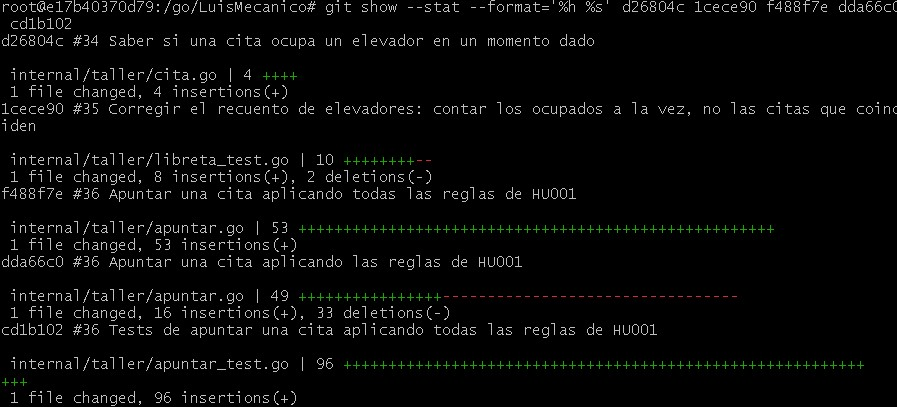
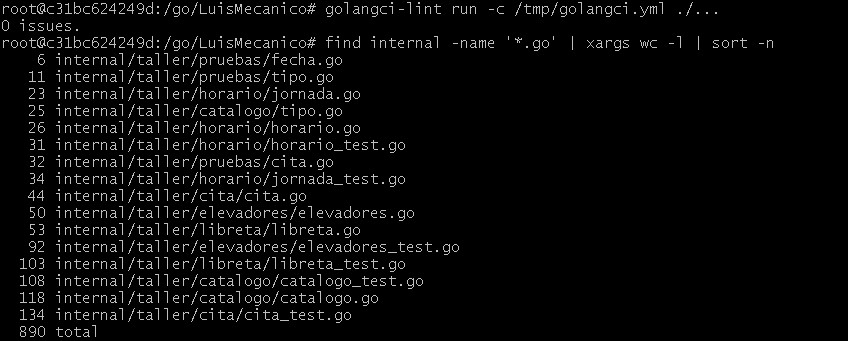
#37 Documento del objetivo 4 recortado, con las medidas de calidad de los tests sobre los paquetes nuevos

diff --git a/docs/objetivo-4.md b/docs/objetivo-4.md
@@ -1,11 +1,12 @@
 # Objetivo 4: Tests
 
-Una biblioteca de aserciones compara el resultado obtenido con el esperado y da el mensaje del fallo. Un test runner descubre los tests, los ejecuta y produce el informe de pasados, fallados y cobertura.
-
 ## Biblioteca de aserciones
 
 ### Criterios
 
+Búsqueda: módulos de Go cuya función declarada es comparar resultados en tests, tanto los más usados como alternativas menos conocidas.
+
+Aceptación:
 - Mantenimiento: ha publicado versión en el último año.
 - Dependencias nuevas que añade a `go.mod` y `go.sum`.
 - Coste: tiempo de descarga y compilación, y sobrecarga en la ejecución frente a usar `testing` solo.
@@ -18,53 +19,34 @@ Una biblioteca de aserciones compara el resultado obtenido con el esperado y da 
 
 ![Versiones y fechas de las opciones](../media/opciones-test-versiones.png)
 
-Cumplen el criterio de mantenimiento:
+Cumplen el criterio de mantenimiento: `testing` (biblioteca estándar, la referencia), testify v1.12.1 (17-08-2026), gomega v1.44.0 (24-09-2026) y shoenig/test v1.13.2 (21-04-2026).
 
-- `testing`, de la biblioteca estándar de Go. Es la referencia con la que se compara.
-- testify v1.12.1 (17-08-2026).
-- gomega v1.44.0 (24-09-2026).
-- shoenig/test v1.13.2 (21-04-2026).
-
-No lo cumplen y se descartan:
-
-- quicktest v1.14.6 (01-08-2023).
-- is v1.4.1 (16-05-2022).
-- gotest.tools/v3 v3.5.2 (05-09-2024).
-- alecthomas/assert v2.11.0 (17-09-2024).
-
-Sin comprobar: go-testdeep, porque `go list` no encuentra versión con la ruta `/v2`.
+Se descartan por no cumplirlo: quicktest v1.14.6 (01-08-2023), is v1.4.1 (16-05-2022), gotest.tools/v3 v3.5.2 (05-09-2024) y alecthomas/assert v2.11.0 (17-09-2024). Sin comprobar: go-testdeep, porque `go list` no encuentra versión con la ruta `/v2`.
 
 ### Medidas
 
-Un mismo test escrito con cada opción (comparar una estructura con `time.Time` y comprobar un error con `errors.Is`), en Linux (imagen `golang:latest`), con las cachés de módulos y de compilación vacías en cada una. La descarga es `go mod tidy`; la ejecución se mide con hyperfine sobre el binario de test ya compilado (500 ejecuciones, 20 de calentamiento).
+Un mismo test con cada opción (comparar una estructura con `time.Time` y comprobar un error con `errors.Is`), en Linux (imagen `golang:latest`), con las cachés vacías. Descarga con `go mod tidy`; ejecución con hyperfine sobre el binario de test ya compilado (500 ejecuciones, 20 de calentamiento).
 
 ![Medidas de las opciones de aserciones](../media/aserciones-medidas.png)
 
-- `testing`: descarga 0,585 s, compilación 6,186 s, 0 módulos, 0 líneas en `go.sum`, ejecución 2,8 ± 0,4 ms.
-- testify: descarga 1,421 s, compilación 11,217 s, 3 módulos, 5 líneas en `go.sum`, ejecución 3,9 ± 0,6 ms.
-- gomega: descarga 2,512 s, compilación 12,283 s, 12 módulos, 17 líneas en `go.sum`, ejecución 4,4 ± 0,6 ms.
-- shoenig/test: descarga 1,104 s, compilación 7,045 s, 2 módulos, 4 líneas en `go.sum`, ejecución 4,1 ± 0,7 ms.
+- `testing`: descarga 0,585 s, compilación 6,186 s, 0 módulos, ejecución 2,8 ± 0,4 ms.
+- testify: descarga 1,421 s, compilación 11,217 s, 3 módulos, ejecución 3,9 ± 0,6 ms.
+- gomega: descarga 2,512 s, compilación 12,283 s, 12 módulos, ejecución 4,4 ± 0,6 ms.
+- shoenig/test: descarga 1,104 s, compilación 7,045 s, 2 módulos, ejecución 4,1 ± 0,7 ms.
 
-Resultado por criterio:
-
-- Errores y estructuras: las cuatro compilan y pasan el test.
-- Escritura junto a los fuentes: las cuatro pasan con los fuentes en solo lectura, ejecutadas como usuario sin permisos de escritura.
-- Dependencias nuevas: testify 3 módulos, gomega 12, shoenig/test 2.
-- Coste de descarga y compilación frente a `testing`: testify +5,9 s, gomega +8,0 s, shoenig/test +1,4 s.
-- Sobrecarga de ejecución frente a `testing`: testify +1,1 ms, gomega +1,6 ms, shoenig/test +1,3 ms. Las diferencias entre las tres están dentro de la desviación.
+Las cuatro comprueban errores y estructuras con `time.Time` y pasan con los fuentes en solo lectura. La sobrecarga de ejecución de las tres externas (entre 1,1 y 1,6 ms) queda dentro de la desviación.
 
 ### Decisión
 
-Me quedo con `testing`, sin biblioteca externa.
-
-Las cuatro opciones cumplen mantenimiento, comprobar errores con `errors.Is`, comparar estructuras con `time.Time` y no escribir junto a los fuentes. Lo que las separa es el coste: `testing` no añade ningún módulo ni tiempo de descarga o compilación, mientras que shoenig/test añade 2 módulos y 1,4 s, testify 3 módulos y 5,9 s y gomega 12 módulos y 8,0 s. La sobrecarga de ejecución (entre 1,1 y 1,6 ms) queda dentro de la desviación y no desempata.
-
-Descarto shoenig/test, testify y gomega porque ninguna aporta algo que mis criterios premien y todas añaden dependencias y tiempo. El precio de `testing` es escribir las comparaciones a mano, que mis criterios no medían.
+Me quedo con `testing`, sin biblioteca externa. Las cuatro cumplen los criterios de aceptación y lo que las separa es el coste: `testing` no añade módulos ni tiempo, y shoenig/test, testify y gomega añaden 2, 3 y 12 módulos y entre 1,4 y 8,0 s. Ninguna aporta algo que mis criterios premien. El precio es escribir las comparaciones a mano.
 
 ## Test runner
 
 ### Criterios
 
+Búsqueda: programas o módulos de Go que ejecutan los tests y muestran el informe, tanto los más usados como alternativas menos conocidas.
+
+Aceptación:
 - Mantenimiento: ha publicado versión en el último año.
 - Tiempo de instalación en Linux con el método oficial.
 - Sobrecarga de ejecución frente a `go test`.
@@ -73,150 +55,94 @@ Descarto shoenig/test, testify y gomega porque ninguna aporta algo que mis crite
 
 ### Opciones
 
-Las versiones y fechas salen de la misma captura.
-
-Cumplen el criterio de mantenimiento:
-
-- `go test`, incluido en Go. Es la referencia con la que se compara.
-- ginkgo v2.34.0 (02-11-2026).
-- gotest v0.0.7 (10-01-2026).
-
-No lo cumplen y se descartan:
-
-- gotestsum v1.13.0 (11-09-2025).
-- richgo v0.3.12 (26-02-2023).
+Las versiones y fechas salen de la misma captura. Cumplen el mantenimiento: `go test` (incluido en Go, la referencia), ginkgo v2.34.0 (02-11-2026) y gotest v0.0.7 (10-01-2026). Se descartan: gotestsum v1.13.0 (11-09-2025) y richgo v0.3.12 (26-02-2023).
 
 ### Medidas
 
-Un mismo test escrito para cada opción, en Linux (imagen `golang:latest`). La instalación se hace con `go install` y las cachés vacías. La ejecución se mide con hyperfine (30 ejecuciones, 3 de calentamiento) sobre `go test -count=1 ./...`, o el comando equivalente de cada runner, con la compilación ya en caché; `go test` se mide al principio y al final para detectar deriva de la máquina. El solo lectura se prueba ejecutando como un usuario sin permisos de escritura en el directorio de los fuentes, con la caché de compilación en otro sitio. La variante de ginkgo usa su propio estilo de tests (`Describe` e `It`).
+Un mismo test por opción, en Linux (imagen `golang:latest`), instalando con `go install` y cachés vacías. Ejecución con hyperfine (30 ejecuciones, 3 de calentamiento) sobre `go test -count=1 ./...` o el equivalente de cada runner. El solo lectura se prueba como usuario sin permisos de escritura en los fuentes.
 
 ![Medidas de los test runners](../media/runner-medidas.png)
 
-- `go test`: incluido en Go. Ejecución 254,3 ± 13,9 ms al inicio y 254,8 ± 9,3 ms al final (referencia: 254,6 ms).
-- gotest: instalación 6,311 s. Ejecución 272,0 ± 24,0 ms.
-- ginkgo: instalación 13,458 s, más 4,595 s de descarga de su biblioteca en el proyecto. Ejecución 739,1 ± 22,2 ms.
-
-Resultado por criterio:
-
-- Instalación: `go test` ninguna; gotest 6,3 s; ginkgo 13,5 s.
-- Sobrecarga de ejecución frente a `go test`: gotest +17,4 ms, dentro de su desviación y por tanto no distinguible del ruido; ginkgo +484,5 ms.
-- Solo lectura: `go test` y gotest pasan (código 0). `ginkgo` falla (código 1), con y sin `--output-dir`, porque copia el binario de test compilado al directorio del paquete (`permission denied`). Compilando el test fuera con `go test -c -o` y pasándole el binario a ginkgo, pasa (código 0), pero son dos comandos.
-- Informe: `go test` y gotest muestran tests pasados y fallados y el porcentaje de cobertura (100 % en esta prueba); ginkgo muestra specs pasados y fallados. La cobertura de ginkgo no se midió, porque falló antes por el solo lectura.
+- `go test`: sin instalación. Ejecución 254,3 ± 13,9 ms al inicio y 254,8 ± 9,3 ms al final.
+- gotest: instalación 6,311 s. Ejecución 272,0 ± 24,0 ms, no distinguible del ruido.
+- ginkgo: instalación 13,458 s. Ejecución 739,1 ± 22,2 ms (+484,5 ms).
+- Solo lectura: `go test` y gotest pasan. ginkgo falla porque copia el binario de test al directorio del paquete (`permission denied`); compilando el test fuera con `go test -c -o` pasa, pero con dos comandos.
+- Informe: `go test` y gotest muestran pasados, fallados y cobertura. La cobertura de ginkgo no se midió, porque falló antes.
 
 ![Ginkgo con el binario compilado fuera de los fuentes](../media/ginkgo-solo-lectura.png)
 
 ### Decisión
 
-Me quedo con `go test`.
-
-Cumple los cinco criterios: viene con Go sin instalar nada, muestra tests pasados, fallados y cobertura, y pasa con los fuentes en solo lectura. gotest cumple lo mismo, pero no aporta nada medible: tarda 6,3 s en instalarse y su sobrecarga (+17,4 ms) queda dentro de la desviación. Descarto ginkgo porque tarda 13,5 s en instalarse, añade +484,5 ms por ejecución y falla con los fuentes en solo lectura salvo que se compile el test fuera, lo que obliga a usar dos comandos. Esto último pesa para el objetivo 5.
+Me quedo con `go test`. Cumple los cinco criterios sin instalar nada. gotest cumple lo mismo pero no aporta nada medible. Descarto ginkgo por 13,5 s de instalación, +484,5 ms por ejecución y porque falla con los fuentes en solo lectura, lo que pesa para el objetivo 5.
 
 ## Calidad de los tests
 
-El objetivo pide tests sin código repetido, con baja complejidad y sin ficheros enormes. Sin límites medibles, "está bien escrito" es una opinión, así que fijo los límites antes de medir y los justifico.
-
 ### Criterios
 
-| Criterio | Límite | Cómo se comprueba |
-|---|---|---|
-| Complejidad ciclomática | 10 por función | herramienta de análisis estático |
-| Longitud de función | 50 líneas | herramienta de análisis estático |
-| Longitud de fichero | 300 líneas | `wc -l` sobre los ficheros `.go` |
-| Código duplicado | ningún bloque en los tests | herramienta de análisis estático |
-| Independientes | pasan en orden aleatorio | `go test -shuffle=on -count=10 ./...` |
-| Repetibles | pasan dos veces seguidas, sin red ni reloj | `go test -count=2 ./...` y `grep -rn "time.Now\|net/http" internal/` sin resultados |
-| Rápidos | todo el conjunto en menos de 1 s | tiempo que imprime `go test ./...` |
-| Autovalidables | romper una regla hace fallar un test | cambio a propósito en el código y `go test ./...` en rojo |
-| Oportunos | el test se escribe antes que el código | en `git log`, el commit de tests va antes que el del código |
+El objetivo pide tests sin código repetido, con baja complejidad y sin ficheros enormes. Fijo los límites antes de medir:
+- Complejidad ciclomática: 10 por función (el límite de McCabe).
+- Longitud de función: 50 líneas. No uso 30 porque los tests con tabla son largos por los datos, no por lógica.
+- Longitud de fichero: 300 líneas.
+- Código duplicado: ningún bloque en los tests. Las ayudas comunes están en `internal/taller/pruebas`.
 
-### Por qué estos límites
+Búsqueda: herramientas de Go o genéricas que midan complejidad ciclomática, longitud de funciones y duplicados.
 
-- **Complejidad 10.** Es el límite que propuso McCabe al definir la métrica y el que suelen usar las herramientas. Una función con más caminos es difícil de probar entera y de entender. El código del taller usa funciones puras pequeñas, así que es un límite alcanzable.
-- **50 líneas por función.** Cabe en una pantalla. No uso 30 porque los tests con tabla son largos solo por los datos de los casos, no por lógica, y con 30 fallarían sin estar mal escritos.
-- **300 líneas por fichero.** Obliga a separar por responsabilidad, como ya se hace (`cita.go`, `horario.go`, `jornada.go`, `elevadores.go`), y evita ficheros enormes.
-- **Sin duplicados.** Si el mismo bloque aparece varias veces en los tests, un cambio en la regla obliga a tocar muchos sitios. Se resuelve con funciones auxiliares (`fecha`, `citaDe`, `citasALaVez`) y tests con tabla.
-- **F.I.R.S.T.** Cada letra tiene una comprobación concreta y automática. Independientes y repetibles aseguran que un test no depende del orden, de la red ni de la hora. Rápidos hace que se ejecuten siempre. Autovalidables evita tests que pasan aunque el código esté roto. Oportunos hace que los tests guíen el diseño (TDD).
+F.I.R.S.T., cada letra con una comprobación:
+- Independientes: `go test -shuffle=on -count=10 ./...` pasa.
+- Repetibles: `go test -count=2 ./...` pasa, sin `time.Now` ni `net/http` en el código (`grep`) y sin dejar ficheros (`git status`).
+- Rápidos: cada paquete tarda menos de 1 s.
+- Autovalidables: romper una regla a propósito hace fallar un test.
+- Oportunos: en `git log`, el commit de tests va antes que el del código.
 
 ### Opciones
 
-Busco herramientas que midan los límites de arriba. Criterio de mantenimiento: al menos un release en el último año (fecha de consulta: 23/11/2026).
-
-| Herramienta | Qué mide | Último release | Mantenida |
-|---|---|---|---|
-| gocyclo | complejidad ciclomática | 2022-06-15 | no |
-| cyclop | complejidad ciclomática | 2024-10-16 | no |
-| gocognit | complejidad cognitiva | 2026-10-06 | sí |
-| dupl | código duplicado | 2026-03-04 | sí |
-| scc | líneas por fichero | 2026-02-27 | sí |
-| golangci-lint | agrupa varios analizadores (entre ellos cyclop, funlen y dupl) | 2026-10-16 | sí |
+Criterio de mantenimiento: un release en el último año (consulta del 23-11-2026), en la captura `calidad-versiones.png`. Cumplen: gocognit (06-10-2026, mide complejidad cognitiva), dupl (04-03-2026), scc (27-02-2026) y golangci-lint v2.15.0 (16-10-2026, incluye `cyclop`, `funlen` y `dupl`). Se descartan por no cumplirlo: gocyclo (15-06-2022) y cyclop suelto (16-10-2024).
 
 ![Versiones de las herramientas de calidad](../media/calidad-versiones.png)
 
-`gocyclo` y `cyclop` quedan descartadas como programas sueltos por no tener release en el último año. `gocognit` mide complejidad cognitiva, que no es el criterio fijado (ciclomática).
-
 ### Medidas
 
-Medido en Linux (contenedor `golang:latest`, Go 1.27), sobre la rama `Objetivo-4`. golangci-lint v2.15.0, instalado con su script oficial de binarios, con `cyclop` (10), `funlen` (50 líneas) y `dupl` (umbral de 100 tokens).
-
-| Criterio | Límite | Medido | ¿Cumple? |
-|---|---|---|---|
-| Complejidad ciclomática | 10 | ninguna función lo supera (`0 issues`) | sí |
-| Longitud de función | 50 líneas | ninguna lo supera (`0 issues`) | sí |
-| Longitud de fichero | 300 líneas | máximo 118 (`catalogo.go`) | sí |
-| Código duplicado | ninguno | ninguno (`0 issues`) | sí |
-| Independientes | 10 pasadas en orden aleatorio | 10 de 10 en `ok` | sí |
-| Repetibles | 2 pasadas, sin red ni reloj | 2 de 2 en `ok`; `grep` sin resultados; `git status` vacío | sí |
-| Rápidos | menos de 1 s | entre 0,019 s y 0,101 s | sí |
-| Autovalidables | romper una regla hace fallar un test | al cambiar `>=` por `>` en `elevadores.go` fallan `TestApuntar`, `TestApuntarNuncaSuperaLosElevadores` y `TestComprobarElevador`; al restaurar, `ok` | sí |
-| Oportunos | test antes que código | en cada regla, el commit de tests precede al de su código | sí |
-
-Sobre oportunos: `d26804c` (`ocupaElevadorEn`) solo extrae código que ya cubrían los tests de #35, y `apuntar.go` tiene dos commits porque la segunda versión simplifica la primera, ambas después de sus tests.
+Linux (contenedor `golang:latest`, Go 1.27), rama `Objetivo-4`, golangci-lint v2.15.0 instalado con su script oficial, con `cyclop` (10), `funlen` (50) y `dupl` (100 tokens).
 
 ![Medidas de calidad de los tests](../media/calidad-medidas.png)
 
+![Medidas de F.I.R.S.T.](../media/first-medidas.png)
+
+- Complejidad, longitud de función y duplicados: `0 issues`.
+- Longitud de fichero: el mayor es `cita/cita_test.go` con 134 líneas (16 ficheros `.go`, 890 líneas).
+- Independientes: 10 de 10 en `ok` con `-shuffle=on`.
+- Repetibles: 2 de 2 en `ok`; `grep` sin resultados; `git status` vacío.
+- Rápidos: entre 0,003 s y 0,039 s por paquete.
+- Autovalidables: al cambiar `>=` por `>` en `elevadores.go` fallan `TestComprobar`, `TestApuntar` y `TestApuntarNuncaSuperaLosElevadores`; al restaurar, `ok`.
+- Oportunos: en cada paquete el commit de tests precede al del código (por ejemplo `1b6f06f` antes de `b099e30` en `horario`).
+
 ### Decisión
 
-Uso **golangci-lint** (v2.15.0) con los analizadores `cyclop`, `funlen` y `dupl`, y los límites fijados antes de medir: complejidad 10, función 50 líneas, duplicados con umbral de 100 tokens. La longitud de fichero (300 líneas) se comprueba con `wc -l`, y F.I.R.S.T. con `go test`, `grep` y `git log`.
-
-Por qué:
-- Con una sola instalación y un solo comando mide tres de los criterios (complejidad, longitud de función y duplicados). Las alternativas mantenidas (`gocognit`, `dupl`, `scc`) obligan a instalar y ejecutar cada una por separado, y `gocognit` mide complejidad cognitiva, no la ciclomática que fijé.
-- Se mantiene: último release el 16/10/2026. `gocyclo` y `cyclop` sueltos están descartados por no tener release en el último año.
-- Se instala con el script de binarios de su documentación, sin añadir dependencias al módulo de Go.
-- La medida dio `0 issues` con los límites fijados, así que el código actual los cumple sin tener que cambiar ningún límite.
-
-Lo que no cubre: golangci-lint no mide la longitud de fichero, por eso uso `wc -l`. Los límites no se relajan para que pasen: si algún día una función los supera, se divide la función.
+Uso golangci-lint (v2.15.0) con `cyclop`, `funlen` y `dupl`, y los límites fijados antes de medir. Con una instalación y un comando mide tres criterios; las alternativas mantenidas obligan a usar una herramienta por criterio, y gocognit mide otra complejidad. Se instala con su script de binarios, sin añadir dependencias a `go.mod`. La longitud de fichero se comprueba con `wc -l` y F.I.R.S.T. con `go test`, `grep` y `git log`. Los límites no se relajan para que pasen.
 
 ## Producto mínimo viable (PMV)
 
-El PMV es el Milestone 1: apuntar una cita en la libreta cumpliendo todas las reglas de HU001, detectando el conflicto al organizar la cita y no cuando empieza la reparación.
+El PMV es el Milestone 1: apuntar una cita cumpliendo todas las reglas de HU001, detectando el conflicto al organizar la cita y no cuando empieza la reparación.
+
+Paquetes del PMV, cada uno con sus tests: `horario` (horario y jornada), `catalogo` (tipos de reparación), `cita`, `elevadores` y `libreta` (punto de entrada: `Libreta.Apuntar`).
 
 ### Tests que debe pasar
 
 El PMV está terminado cuando `just test` pasa y estos comportamientos tienen test:
-
 - Apuntar en una libreta vacía añade la cita.
 - Una cita en domingo se rechaza (`ErrDomingo`).
 - Una cita fuera de las 8:00 a 21:00 se rechaza (`ErrFueraDeHorario`).
 - Un tipo que no está en el catálogo se rechaza (`ErrTipoDesconocido`).
-- Una cita con el mismo inicio y el mismo tipo que otra se rechaza (`ErrCitaDuplicada`).
-- Si los tres elevadores están ocupados a la vez, una cita que necesita elevador se rechaza (`ErrSinElevadorLibre`).
-- Si los tres elevadores están ocupados, una cita que no usa elevador se apunta.
+- Una cita con el mismo inicio y tipo que otra se rechaza (`ErrCitaDuplicada`).
+- Con los tres elevadores ocupados a la vez, una cita que necesita elevador se rechaza (`ErrSinElevadorLibre`).
+- Con los tres elevadores ocupados, una cita que no usa elevador se apunta.
 - Una reparación larga sigue en la siguiente jornada y se salta el domingo.
 - Tras cualquier secuencia de citas, nunca hay más de tres elevadores ocupados a la vez.
 - Rechazar una cita no cambia la libreta.
 
 ### Niveles de test
 
-- **Unitarios:** funciones puras, una por regla (leer el catálogo, validar el horario, calcular cuándo acaba una cita, contar los elevadores ocupados). Se prueban solas, con tablas de casos.
-- **Integración:** `Libreta.Apuntar` junta todas las reglas, y la carga del catálogo se prueba contra el fichero real `tipos_reparacion.csv`.
-- **De propiedad:** una secuencia larga de citas comprueba que nunca se superan los tres elevadores.
-- **No hay tests de interfaz ni de extremo a extremo**: el PMV no tiene interfaz.
-
-### Qué queda fuera y por qué
-
-- **HU002 y HU003:** van al Milestone 2. El PMV solo necesita detectar el conflicto de elevadores para demostrar el valor de la solución.
-- **Guardar la libreta en disco o en una base de datos:** el conflicto se detecta igual con la libreta en memoria.
-- **Una interfaz para el recepcionista:** el PMV se prueba con tests, no a mano.
-- **Herramientas y máquinas distintas del elevador:** el elevador es el único recurso de uso continuo que bloquea citas, según la descripción del problema. Los demás se usan de forma puntual.
-- **Mecánicos asignados, retrasos y precio:** no intervienen en decidir si cabe una cita.
-- **Buscar otro horario libre:** el PMV avisa del conflicto, pero no propone alternativas.
+- Unitarios: funciones puras de cada paquete, con tablas de casos.
+- Integración: `Libreta.Apuntar` junta las reglas de todos los paquetes, y `catalogo.Cargar` se prueba contra el fichero real `tipos_reparacion.csv`.
+- De propiedad: una secuencia larga de citas comprueba que nunca se superan los tres elevadores.
+- No hay tests de interfaz ni de extremo a extremo: el PMV no tiene interfaz.
